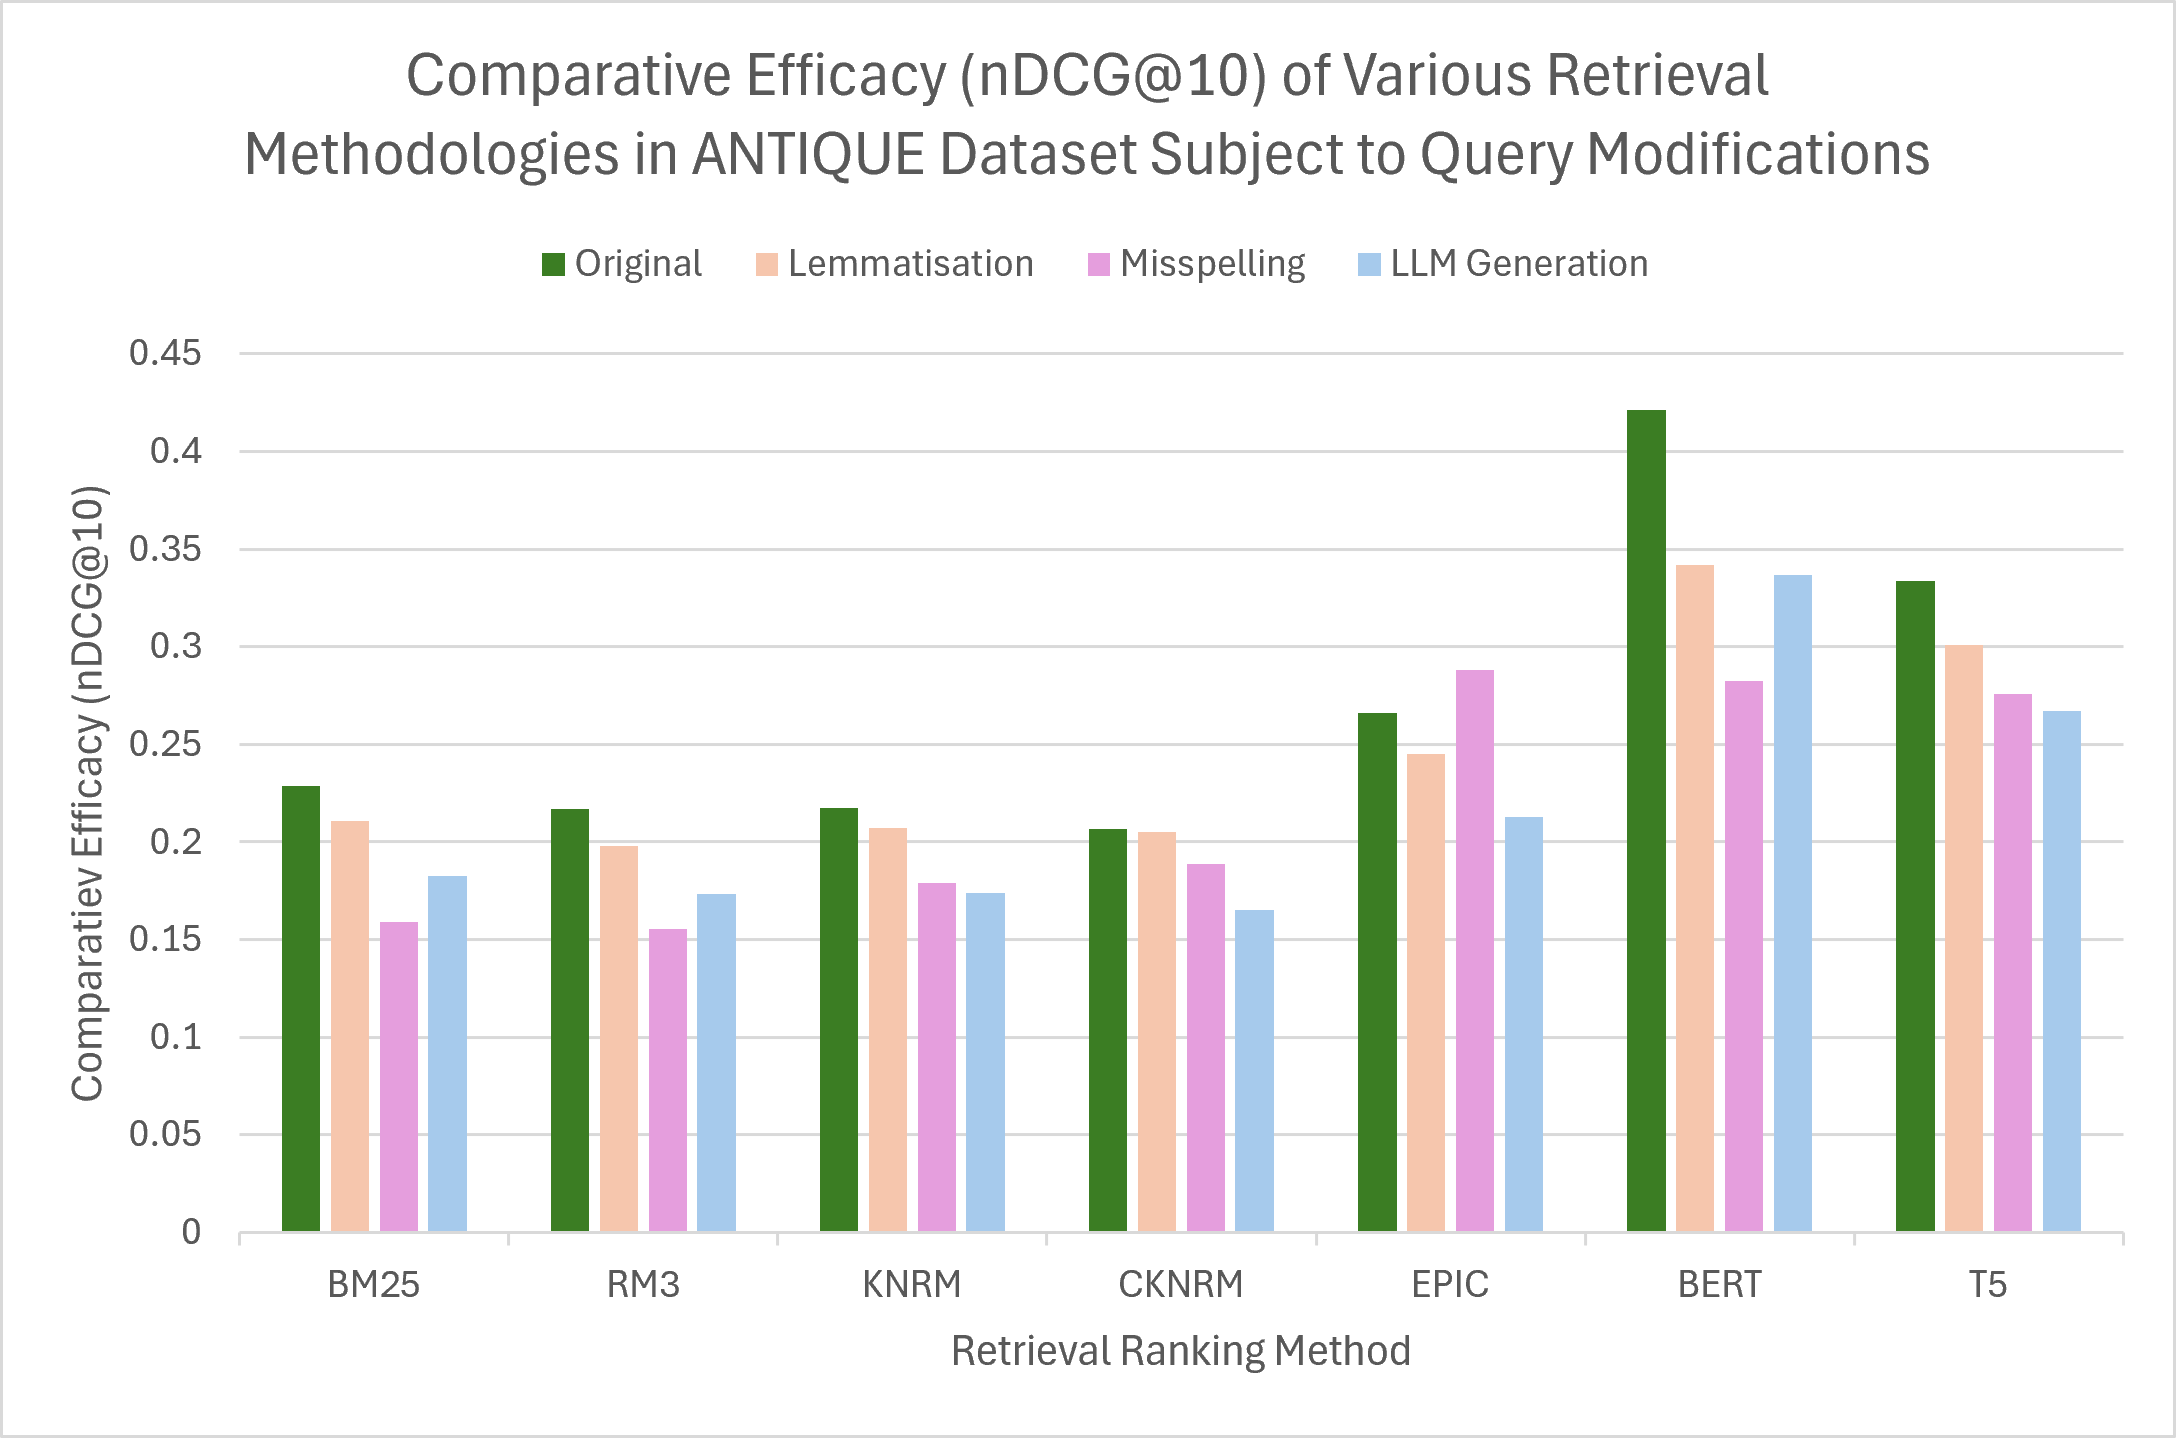
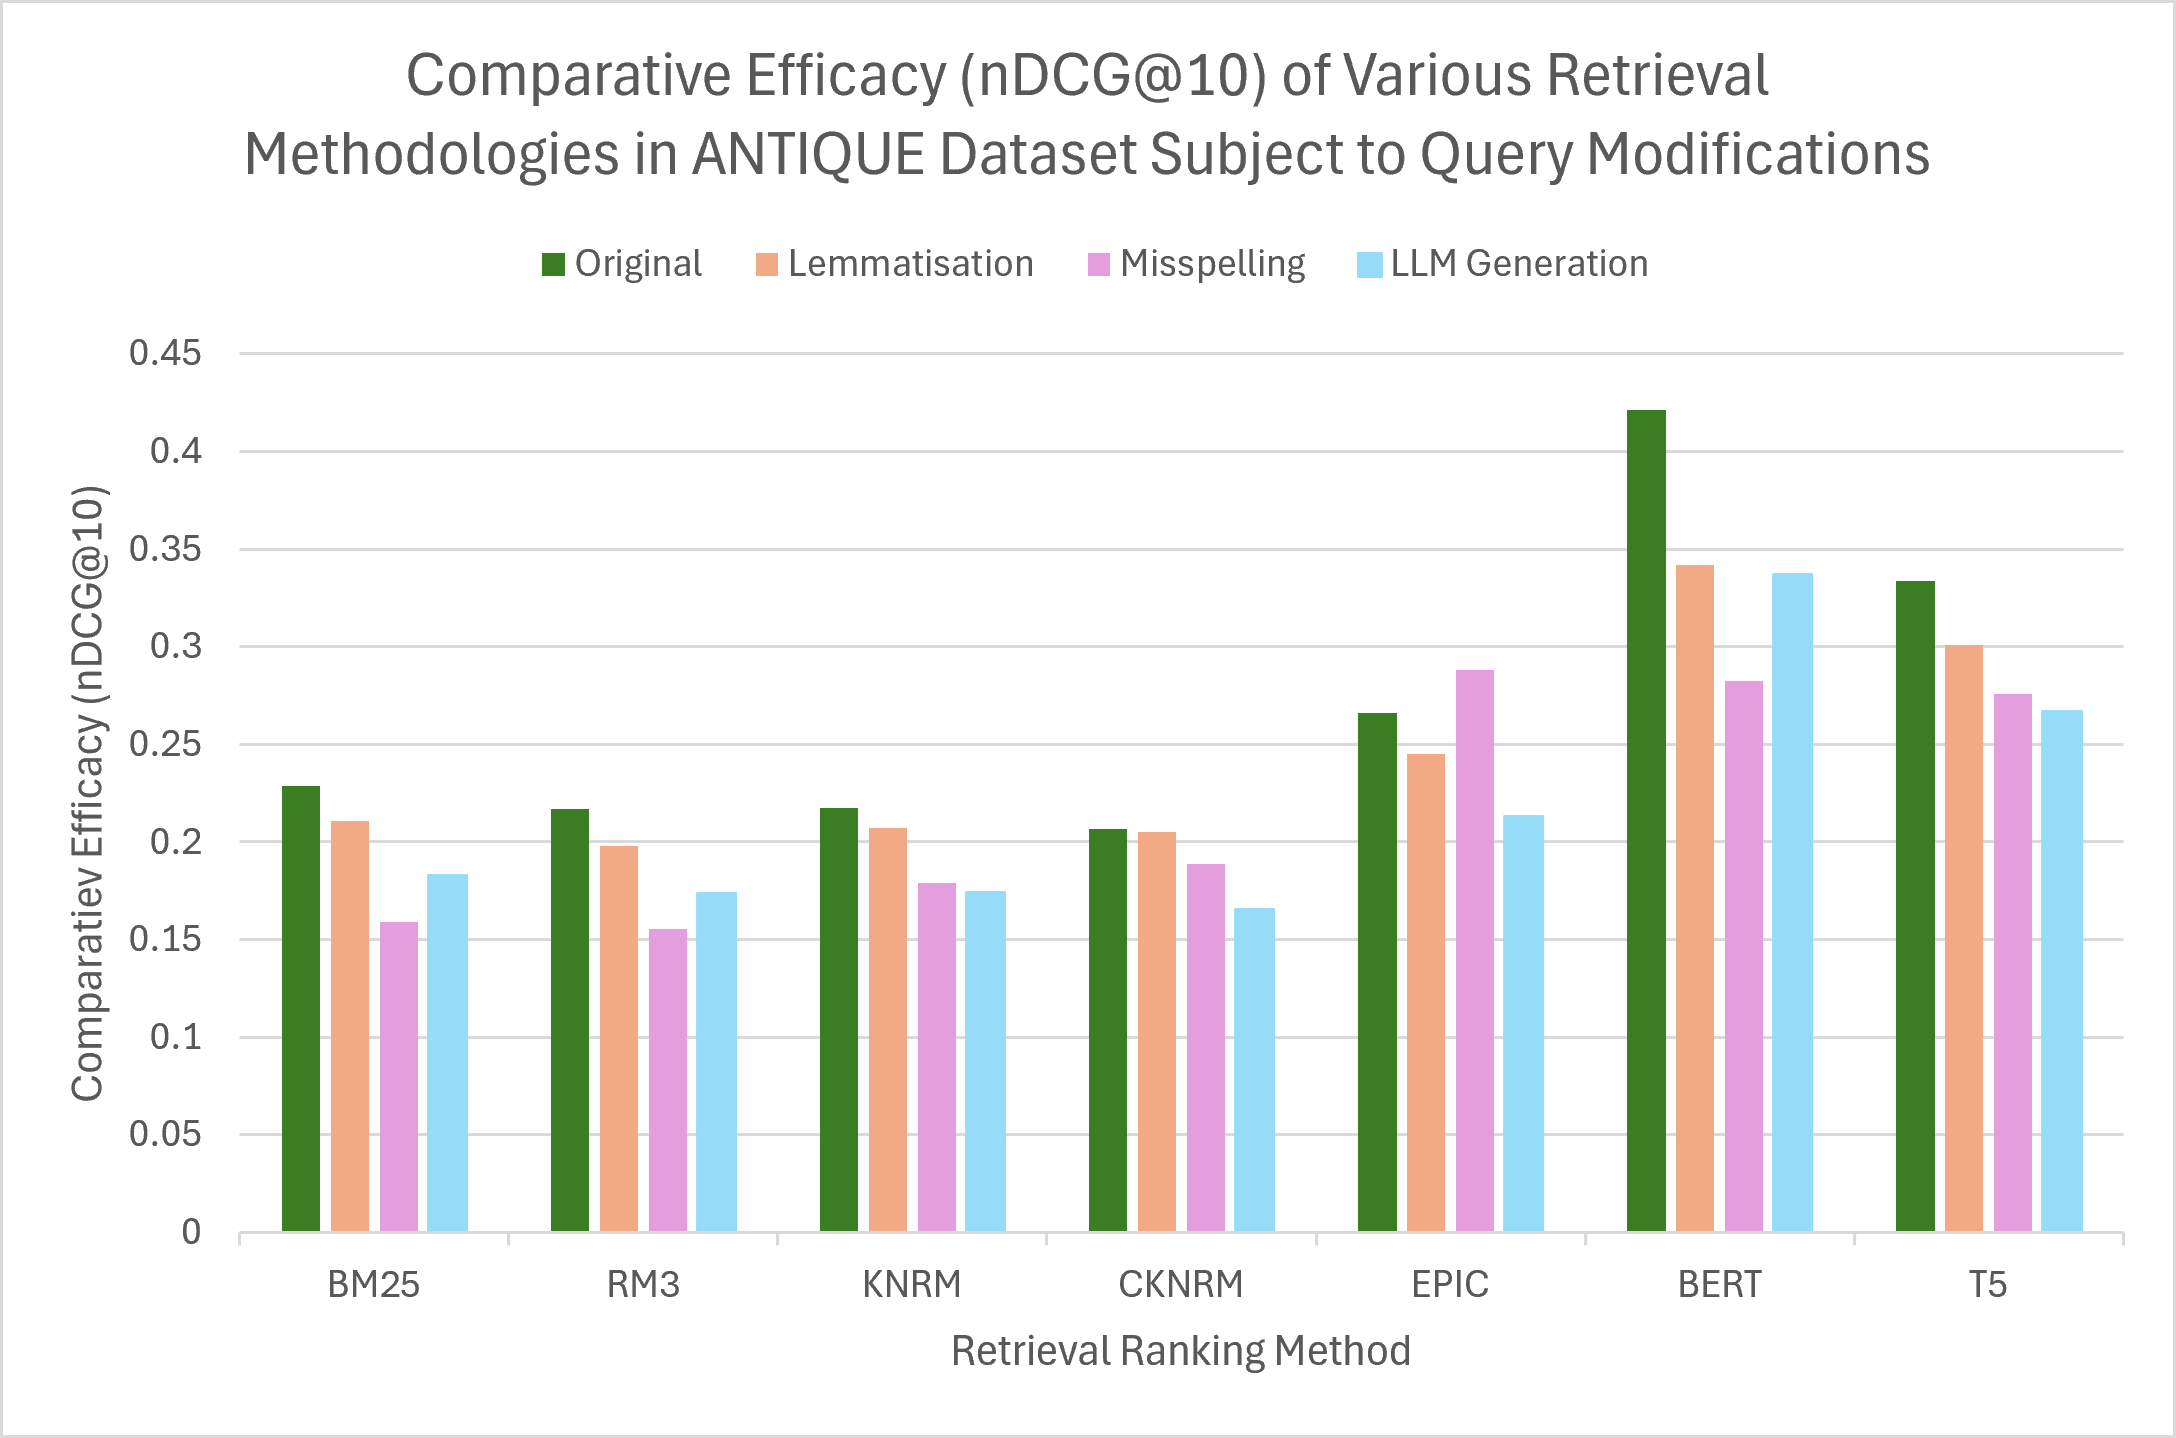
upload files

diff --git a/_projects/pid-lander/pid-lander.md b/_projects/pid-lander/pid-lander.md
@@ -27,7 +27,24 @@ The deliberate constraint that makes the problem interesting is that **the actua
 The project is written in C99 against [raylib](https://www.raylib.com/) for rendering, structured as ten small modules (plant, controller, instruments, analysis plots, autotuner, UI widgets) with a headless test suite and an autonomous self-test mode that regression-checks the instrumentation itself.
 
 {% include image-gallery.html images="console.png" height="600" %}
-<span style="font-size: 14px">The full flight console: telemetry and per-term control effort (left), flight view with wind streaks (center), controller design panel (right), 20-second history strips, analysis plot, and mission sequence editor (bottom).</span>
+<span style="font-size: 14px">Figure 1; The full flight console: telemetry and per-term control effort (left), flight view with wind streaks (center), controller design panel (right), 20-second history strips, analysis plot, and mission sequence editor (bottom).</span>
+
+![gameplay](begin_toggle_pid.gif "stepping through PID toggle control")
+<br>
+<span style="font-size: 14px">Figure 2; Brief sample of gameplay. Game is started with button press and manually controlled by user-presses on spacebar by default. PID control can be started by pressing 'P'. Control gain bars and telemtry are at left, history plot of altitude, wind force, thrust and altitude set at bottom. Toggle panel at right sets controls.</span>
+
+![gameplay](plot_toggle.gif "Changing plots between bode, phase, root locus and step response")
+<span style="font-size: 14px">Figure 3; Changing plots between bode, phase, root locus and step response</span>
+
+![sequence changing](set_sequence.gif "Adjusting sequence of altitudes and timing/number of points")
+<br>
+<span style="font-size: 14px">Figure 4; Adjusting flight sequence, number of altitudes, timespan and altitude setting. Errors and effort are logged for plays on each sequence. Control weights can be adjusted and tested against known sequence.</span>
+
+<a href="https://youtu.be/yYE1kUrhGyA" target="_blank">
+  <img src="https://img.youtube.com/vi/yYE1kUrhGyA/maxresdefault.jpg" alt="PIDlander gameplay sequence" width="560" />
+</a>
+<br>
+<span style="font-size: 14px">Figure 5; Youtube vide of sample playing the sequence. Craft is landed successfully as displayed with m/s landing speed. Sequence can be rerun with different parameters.</span>
 
 ## The Plant: Physics & Real-Time Architecture
 